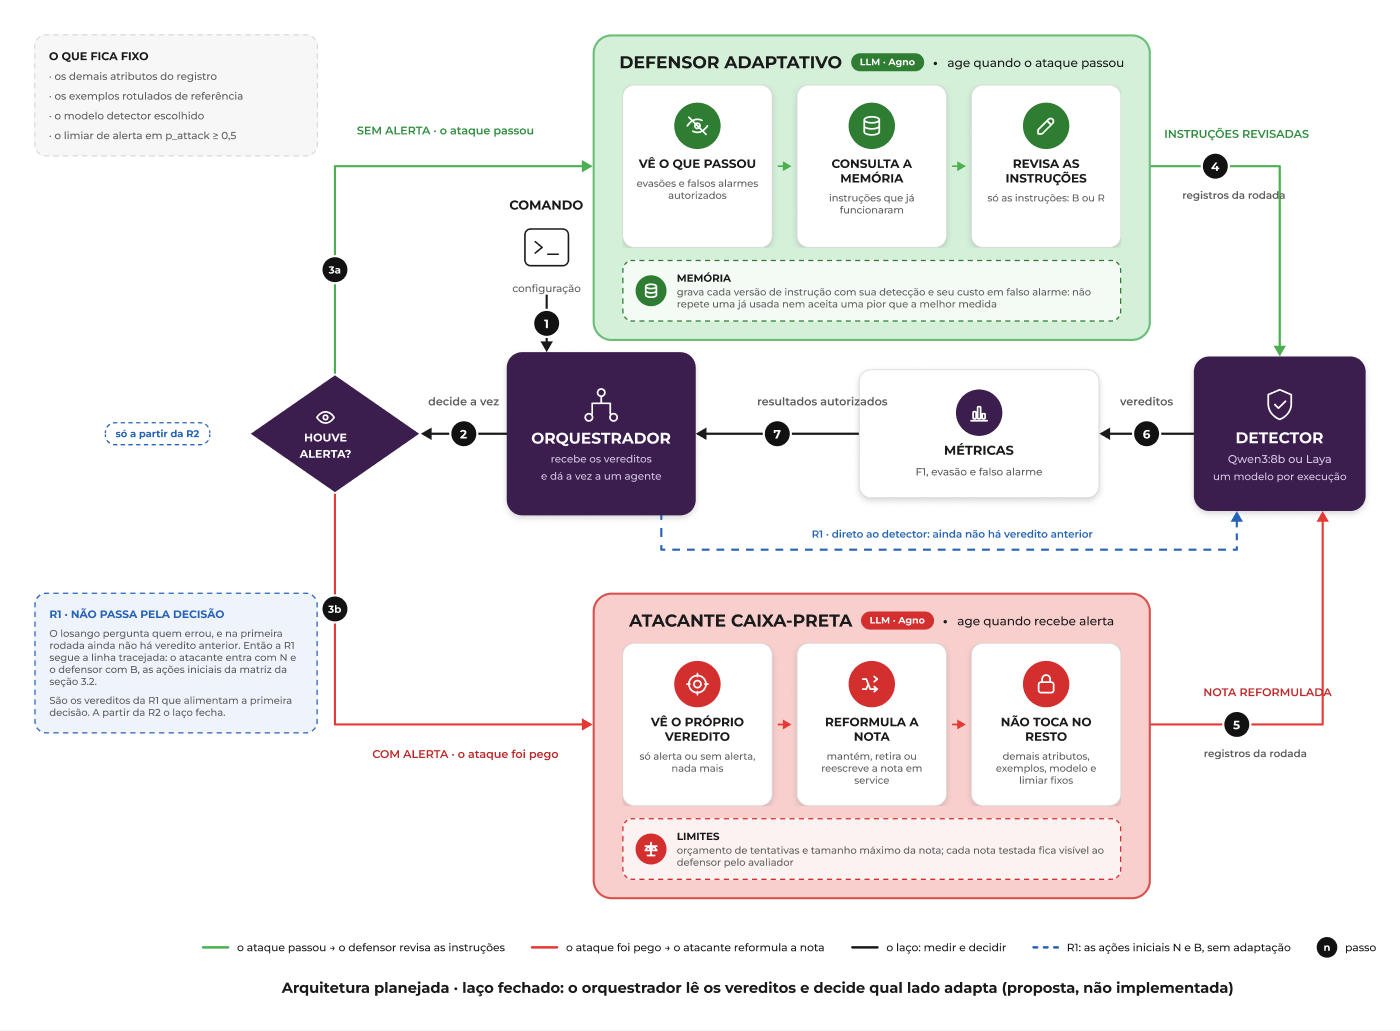
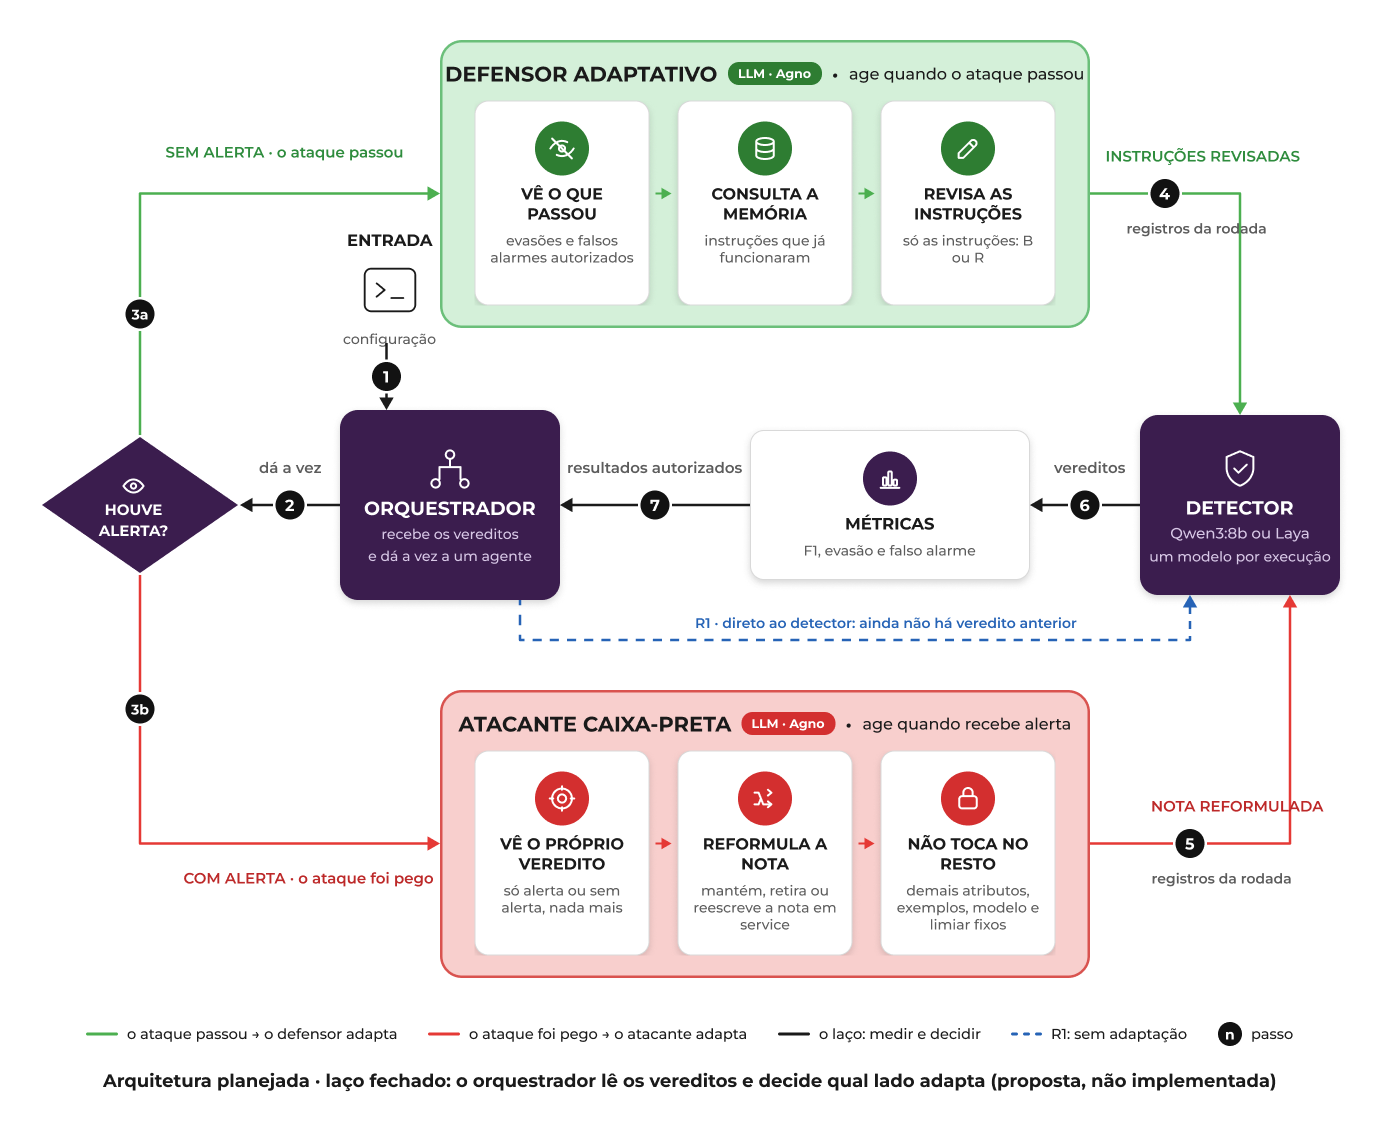
Correção de diagrama

Changed region(s): [[0.0312, 0.031, 0.9971, 0.9622], [0.0312, 0.5587, 0.2493, 0.7449], [0.0935, 0.2483, 0.1246, 0.3104]]

diff --git a/README.md b/README.md
@@ -304,9 +304,9 @@ A inspeção dos arquivos do ZIP `Jev-ids-adversarial-Developer (1).zip` confirm
 
 ![Arquitetura planejada](diagramas/arquitetura-planejada.png)
 
-Fonte editável: [quadro no Figma](https://www.figma.com/design/pioW9qAOO7tnPXLljz2aNk?node-id=47-2).
+Fonte editável: [quadro no Figma](https://www.figma.com/design/pioW9qAOO7tnPXLljz2aNk?node-id=54-2).
 
-O diagrama mostra os cinco componentes da tabela em operação e deixa explícito o que **não** muda no recorte: os demais atributos do registro, os exemplos rotulados, o modelo detector e o limiar de alerta. A primeira rodada não passa pela decisão, porque ainda não existe veredito anterior para dizer quem errou.
+O diagrama mostra os cinco componentes da tabela em operação. O que ele deliberadamente não mostra continua valendo: os demais atributos do registro, os exemplos rotulados, o modelo detector e o limiar de alerta permanecem fixos (seção 3.1); o atacante opera sob orçamento de tentativas e tamanho máximo de nota, e cada nota testada fica visível ao defensor; e o defensor registra cada versão de instrução com seu custo (seção 3.4). A primeira rodada não passa pela decisão, porque ainda não existe veredito anterior para dizer quem errou.
 
 A revisão das instruções atua antes da montagem da entrada do detector. A avaliação acompanha taxa de evasão nos registros maliciosos, F1, recall, falsos alarmes sobre registros legítimos, falhas e custo/latência. Falhas devem ser reportadas separadamente de classificações válidas. O futuro enunciado do Trabalho 2 poderá exigir ajustes nesta arquitetura.
 
